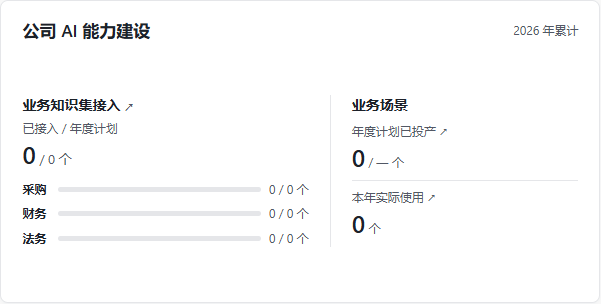
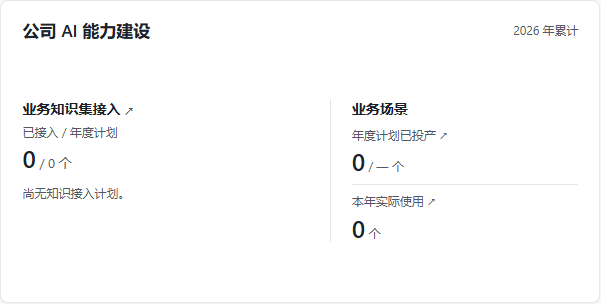
fix(board): 领导可查看当年实际知识接入分类，知识库创建人仅需选填看板归属
解决的问题
战略看板在没有计划时仍列出三个示例分类。知识库的看板表单额外展示业务方向、说明与案例字段，混淆接入计划及资产资料的用途。

改动方法
由年度接入条目及截至日的分类记录生成分类清单，无计划时提示空态。文档与 QA 知识库只供选择专题、场景，在编辑已有归属时沿用原案例与资产资料。战略页截图见 features/v3.0.2/122-company-boards/screenshots/parity/strategy-capacity-local.png。

验证结果
本地 3001 实测无计划空态、两类知识库创建入口及其他资产入口。浏览器隔离样例的装备维保为 1 / 2，未归类为 0 / 1，与下钻明细一致。前端构建、国际化检查及资产创建回归通过。

diff --git a/src/frontend/platform/src/pages/CompanyBoards/AssetContextFields.tsx b/src/frontend/platform/src/pages/CompanyBoards/AssetContextFields.tsx
@@ -18,7 +18,7 @@ interface Context {
   case_fields: CaseFields;
   profile: Partial<Record<"direction" | "description" | "rules", string>>;
 }
-interface Props { assetKey?: string; skill?: boolean; saveButton?: React.ReactNode }
+interface Props { assetKey?: string; associationsOnly?: boolean; skill?: boolean; saveButton?: React.ReactNode }
 export interface AssetContextHandle {
   persist: (kind: Kind, saveAsset: () => Promise<string | number>) => Promise<string | number>;
 }
@@ -29,7 +29,7 @@ export const AssetContextFields = forwardRef<AssetContextHandle, Props>(function
   return <AssetFields key={props.assetKey || "new"} {...props} ref={ref}/>;
 });
 
-const AssetFields = forwardRef<AssetContextHandle, Props>(function AssetFields({ assetKey, skill, saveButton }, ref) {
+const AssetFields = forwardRef<AssetContextHandle, Props>(function AssetFields({ assetKey, associationsOnly, skill, saveButton }, ref) {
   const { t } = useTranslation("companyBoards");
   const id = useId();
   const [expanded, setExpanded] = useState(false);
@@ -62,24 +62,26 @@ const AssetFields = forwardRef<AssetContextHandle, Props>(function AssetFields({
   useImperativeHandle(ref, () => ({
     async persist(kind, saveAsset) {
       if (!dirty || !context) return saveAsset();
-      const caseFields = context.case_name.trim() ? { ...context.case_fields } : {};
-      if (context.case_name.trim() && table.trim()) {
-        let grid: string[][];
-        try { grid = parseCasePaste(table); } catch { grid = []; }
-        const error = grid.length ? caseTableError(grid) : "quote";
-        if (error) {
-          const message = t("registers.sample." + error);
-          setMessage(message);
-          throw new Error(message);
-        }
-        caseFields.sampleTable = JSON.stringify(grid);
-      } else delete caseFields.sampleTable;
+      const caseFields = { ...context.case_fields };
+      if (!associationsOnly) {
+        if (context.case_name.trim() && table.trim()) {
+          let grid: string[][];
+          try { grid = parseCasePaste(table); } catch { grid = []; }
+          const error = grid.length ? caseTableError(grid) : "quote";
+          if (error) {
+            const message = t("registers.sample." + error);
+            setMessage(message);
+            throw new Error(message);
+          }
+          caseFields.sampleTable = JSON.stringify(grid);
+        } else delete caseFields.sampleTable;
+      }
       const ident = savedAsset.current ?? await saveAsset();
       savedAsset.current = ident;
       try {
         const result = await request.put<unknown, {revision:number}>(base + "/" + encodeURIComponent(kind + ":" + ident), {
           year: context.year, topic: context.topic, scenes: context.scene_ids, revision: context.revision,
-          case_name: context.case_name.trim(), case_fields: caseFields, profile: context.profile,
+          case_name: context.case_name.trim(), case_fields: context.case_name.trim() ? caseFields : {}, profile: context.profile,
         });
         setContext(old => old && { ...old, revision: result.revision });
         savedAsset.current = null;
@@ -94,7 +96,7 @@ const AssetFields = forwardRef<AssetContextHandle, Props>(function AssetFields({
   return <div className="my-3 rounded-lg border border-border">
     <button type="button" aria-expanded={expanded} aria-controls={id} onClick={() => setExpanded(!expanded)}
       className="flex w-full items-center justify-between gap-3 rounded-lg px-3 py-2 text-left text-sm font-medium hover:bg-muted focus-visible:ring-2 focus-visible:ring-primary">
-      {t("assetContext.title")}<span aria-hidden="true">{expanded ? "−" : "+"}</span>
+      {t(associationsOnly ? "assetContext.associationsTitle" : "assetContext.title")}<span aria-hidden="true">{expanded ? "−" : "+"}</span>
     </button>
     {expanded && <div id={id} className="grid gap-3 px-3 pb-3">
       {message && <p role="alert" className="text-sm text-destructive">{message}</p>}
@@ -117,27 +119,29 @@ const AssetFields = forwardRef<AssetContextHandle, Props>(function AssetFields({
             </label>)}
           </div>
         </fieldset>}
-        <label className="grid gap-1 text-sm">{t("assetContext.direction")}
-          <Input maxLength={2048} value={context.profile.direction || ""} onChange={e => change({ profile: { ...context.profile, direction: e.target.value } })} />
-        </label>
-        <label className="grid gap-1 text-sm">{t("assetContext.description")}
-          <Textarea maxLength={2048} rows={2} placeholder={t("assetContext.useAssetDescription")}
-            value={context.profile.description || ""} onChange={e => change({ profile: { ...context.profile, description: e.target.value } })} />
-        </label>
-        {skill && <label className="grid gap-1 text-sm">{t("assetContext.rules")}
-          <Textarea maxLength={2048} rows={2} value={context.profile.rules || ""}
-            onChange={e => change({ profile: { ...context.profile, rules: e.target.value } })} />
-        </label>}
-        <label htmlFor={id+"case"} className="text-sm">{t("assetContext.case")}</label>
-        <Input id={id+"case"} maxLength={160} value={context.case_name} onChange={e => change({ case_name: e.target.value })} />
-        {context.case_name && <>
-          {caseKeys.map(k => <label key={k} className="grid gap-1 text-sm">{t("assetContext."+k)}
-            <Input value={context.case_fields[k] || ""} maxLength={k === "action" ? 40 : k === "sampleTitle" ? 100 : k === "summary" ? 512 : 2048}
-              onChange={e => change({ case_fields: { ...context.case_fields, [k]: e.target.value } })} />
-          </label>)}
-          <label className="grid gap-1 text-sm">{t("assetContext.table")}
-            <Textarea value={table} rows={3} placeholder={t("registers.sample.help")} onChange={e => { setTable(e.target.value); setDirty(true); }}/>
+        {!associationsOnly && <>
+          <label className="grid gap-1 text-sm">{t("assetContext.direction")}
+            <Input maxLength={2048} value={context.profile.direction || ""} onChange={e => change({ profile: { ...context.profile, direction: e.target.value } })} />
           </label>
+          <label className="grid gap-1 text-sm">{t("assetContext.description")}
+            <Textarea maxLength={2048} rows={2} placeholder={t("assetContext.useAssetDescription")}
+              value={context.profile.description || ""} onChange={e => change({ profile: { ...context.profile, description: e.target.value } })} />
+          </label>
+          {skill && <label className="grid gap-1 text-sm">{t("assetContext.rules")}
+            <Textarea maxLength={2048} rows={2} value={context.profile.rules || ""}
+              onChange={e => change({ profile: { ...context.profile, rules: e.target.value } })} />
+          </label>}
+          <label htmlFor={id+"case"} className="text-sm">{t("assetContext.case")}</label>
+          <Input id={id+"case"} maxLength={160} value={context.case_name} onChange={e => change({ case_name: e.target.value })} />
+          {context.case_name && <>
+            {caseKeys.map(k => <label key={k} className="grid gap-1 text-sm">{t("assetContext."+k)}
+              <Input value={context.case_fields[k] || ""} maxLength={k === "action" ? 40 : k === "sampleTitle" ? 100 : k === "summary" ? 512 : 2048}
+                onChange={e => change({ case_fields: { ...context.case_fields, [k]: e.target.value } })} />
+            </label>)}
+            <label className="grid gap-1 text-sm">{t("assetContext.table")}
+              <Textarea value={table} rows={3} placeholder={t("registers.sample.help")} onChange={e => { setTable(e.target.value); setDirty(true); }}/>
+            </label>
+          </>}
         </>}
       </>}
       {context && dirty && saveButton}

diff --git a/src/frontend/platform/src/pages/CompanyBoards/prototype/Strategy.tsx b/src/frontend/platform/src/pages/CompanyBoards/prototype/Strategy.tsx
@@ -1,4 +1,5 @@
 import { useLayoutEffect, useRef, useState, type ReactNode } from "react";
+import { useTranslation } from "react-i18next";
 import { createPortal } from "react-dom";
 import { CaseOutput } from "../CaseOutput";
 import { kinds, knowledgeCategories, strategyRows, strategyTopicAssets } from "./StrategyModel";
@@ -63,6 +64,7 @@ function Card({
   );
 }
 export default function Strategy({ data, period, open, registers, board }: PrototypeViewProps) {
+  const { t } = useTranslation("boardPlans");
   const frame = useRef<HTMLDivElement>(null);
   const [root, setRoot] = useState<ShadowRoot | null>(null);
   useLayoutEffect(() => {
@@ -90,7 +92,7 @@ export default function Strategy({ data, period, open, registers, board }: Proto
   const categories = knowledgeCategories(registers, data.cutoff);
   const byArea = (area: string) => collections.filter((r) => (categories.get(r.id) || "未归类") === area);
   const groupLabels = Array.from(
-    new Set(["采购", "财务", "法务", ...collections.map((r) => categories.get(r.id) || "未归类")]),
+    new Set(collections.map((r) => categories.get(r.id) || "未归类")),
   );
   const caseRow = registers
     .filter((r) => r.kind === "case" && r.parent_id === topic?.id && r.date <= data.cutoff)
@@ -170,6 +172,7 @@ export default function Strategy({ data, period, open, registers, board }: Proto
                             <b>{stats.knowledge_verified}</b> / {stats.knowledge_planned} 个
                           </span>
                         </Hit>
+                        {!collections.length && <p className="knowledge-empty">{t("emptyCollections")}</p>}
                         <dl className="knowledge-details">
                           {groupLabels.map((area) => (
                             <div className="knowledge-row" key={area}>

diff --git a/src/frontend/platform/src/pages/KnowledgePage/components/QaLibraryDialog.tsx b/src/frontend/platform/src/pages/KnowledgePage/components/QaLibraryDialog.tsx
@@ -221,7 +221,7 @@ export function QaLibraryDialog({ datalist, open, onOpenChange, onLoadEnd, mode 
                         )}
                     </div>
                 </div>
-                <AssetContextFields ref={assetContext} assetKey={mode === "edit" && currentLib ? "knowledge:" + currentLib.id : undefined} />
+                <AssetContextFields associationsOnly ref={assetContext} assetKey={mode === "edit" && currentLib ? "knowledge:" + currentLib.id : undefined} />
                 <DialogFooter>
                     <DialogClose>
                         <Button variant="outlined" color="default">{t('cancel')}</Button>

diff --git a/src/frontend/platform/src/pages/KnowledgePage/components/KnowledgeLibraryDialog.tsx b/src/frontend/platform/src/pages/KnowledgePage/components/KnowledgeLibraryDialog.tsx
@@ -248,7 +248,7 @@ export function KnowledgeLibraryDialog({ datalist, open, onOpenChange, onLoadEnd
                     )}
                 </div>
             </div>
-            <AssetContextFields ref={assetContext} assetKey={mode === "edit" && currentLib ? "knowledge:" + currentLib.id : undefined} />
+            <AssetContextFields associationsOnly ref={assetContext} assetKey={mode === "edit" && currentLib ? "knowledge:" + currentLib.id : undefined} />
                 <DialogFooter>
                 <DialogClose>
                     <Button variant="outlined" color="default">{t('cancel')}</Button>

diff --git a/src/frontend/platform/src/pages/CompanyBoards/prototype/StrategyFrame.css b/src/frontend/platform/src/pages/CompanyBoards/prototype/StrategyFrame.css
@@ -170,6 +170,8 @@ dl dd:last-child { margin-bottom: 0px; }
   font-weight: 600;
   line-height: 1.15;
 }
+.knowledge-empty { margin: 12px 0 0; font-size: 12px; color: var(--al-muted); }
+.knowledge-details:empty { display: none; }
 .knowledge-details { display: grid; gap: 7px; margin: 12px 0 0; }
 .knowledge-row, .knowledge-row dd {
   display: grid;

diff --git a/features/v3.0.2/122-company-boards/registers-plan.md b/features/v3.0.2/122-company-boards/registers-plan.md
@@ -43,9 +43,11 @@ erDiagram
 
 ## 资产归属、关联与案例
 
-助手、工作流和知识库在创建或编辑时展开「看板归属与代表案例」。Skill、自建 API 工具和 MCP 工具也可在各自的管理入口填写，托管应用从详情的「发布」设置进入。
+文档知识库和 QA 知识库在创建或编辑时，可展开「看板归属（选填）」选择所属专题及关联场景。
 
-创建人可以直接使用默认专题「AI先锋行动」，也可以选择其他专题并关联其下的一个或多个场景。场景和案例均为选填。创建人可补业务方向、业务说明，Skill 还可补规则说明，供看板的资产明细展示。案例内容可包括名称、简介、输入、输出及成果样表。案例随资产归入专题；资产上线进入公司目录后，看板可按专题或场景找到它。配置业务关系本身不增加资产调用次数。
+助手和工作流在创建或编辑时展开「看板归属与代表案例」。Skill、自建 API 工具和 MCP 工具也可在各自的管理入口填写，托管应用从详情的「发布」设置进入。
+
+创建人可以直接使用默认专题「AI先锋行动」，也可以选择其他专题并关联其下的一个或多个场景。关联场景为选填。支持代表案例的资产可补业务方向、业务说明，Skill 还可补规则说明，供看板的资产明细展示。案例内容可包括名称、简介、输入、输出及成果样表。案例随资产归入专题；资产上线进入公司目录后，看板可按专题或场景找到它。配置业务关系本身不增加资产调用次数。
 
 同一项资产被多个场景复用时，专题资产数按资源键去重，实际使用按执行记录和当日有效关联归集。执行不能唯一确定场景时仍进入公司总量。原台账中的关联和案例供历史回查，后续维护从资产编辑入口进入。
 
